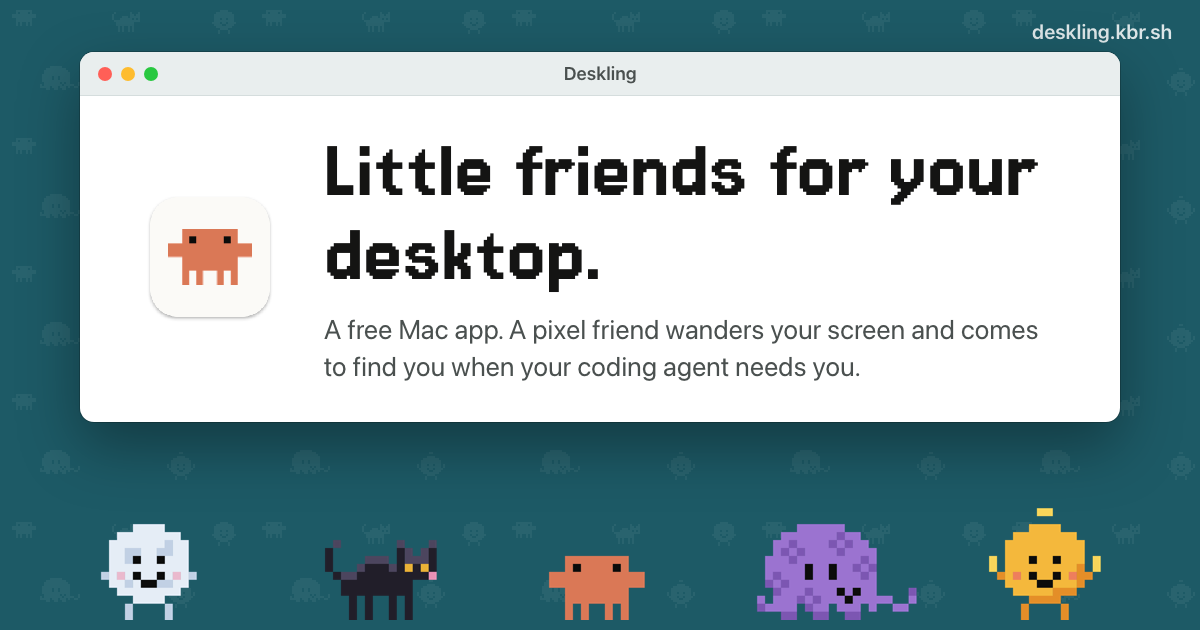
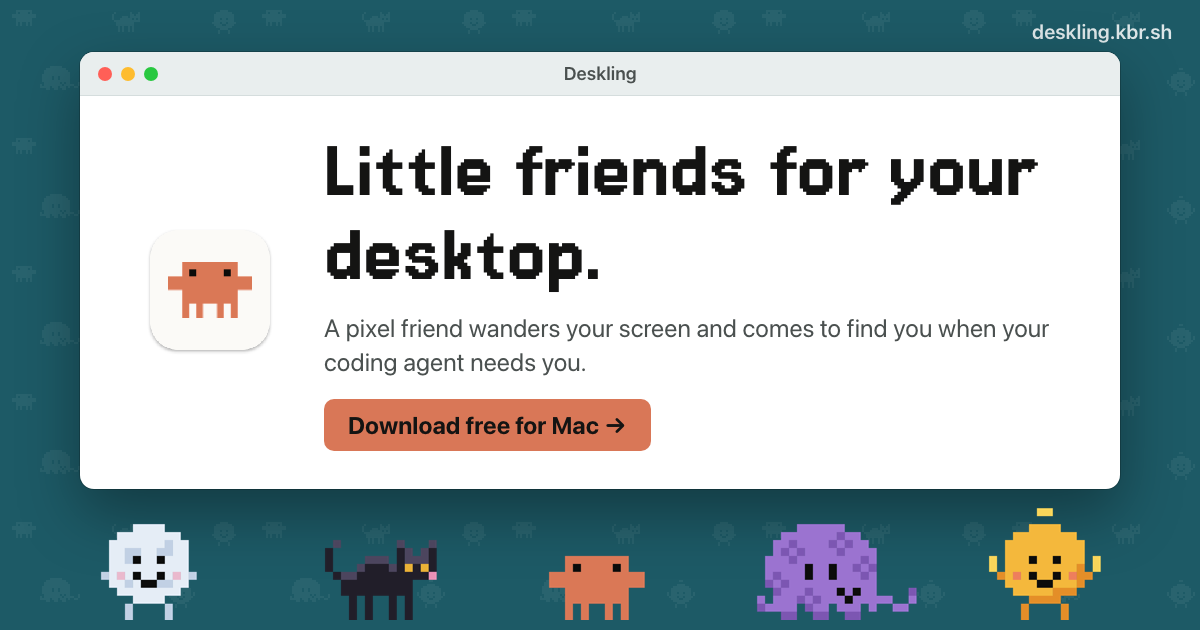
The preview card asks you to download, and its text fits
Shortens the title and descriptions to what Google and social previews
show without truncating, and adds a download button to the card.

diff --git a/apps/website/index.html b/apps/website/index.html
@@ -3,22 +3,22 @@
 <head>
 <meta charset="utf-8">
 <meta name="viewport" content="width=device-width, initial-scale=1">
-<title>Deskling: little pixel friends for your desktop (unofficial fan app)</title>
-<meta name="description" content="Deskling is a free, open-source Mac menubar app. Pick a little pixel character and they walk along the bottom of your screen, and come and find you when your coding agent needs you. Clawd is Anthropic's character; this is an unofficial fan project.">
+<title>Deskling: little pixel friends for your desktop</title>
+<meta name="description" content="Free, open-source Mac app. A pixel friend walks along your screen and comes to find you when your coding agent needs you. Unofficial fan project.">
 <meta name="theme-color" content="#1d5a66">
 <link rel="canonical" href="https://deskling.kbr.sh/">
 <meta property="og:type" content="website">
 <meta property="og:site_name" content="Deskling">
 <meta property="og:url" content="https://deskling.kbr.sh/">
 <meta property="og:title" content="Deskling: little pixel friends for your desktop">
-<meta property="og:description" content="A free, open-source Mac app. A pixel friend wanders along the bottom of your screen and comes to find you when your coding agent needs you. Unofficial fan project.">
+<meta property="og:description" content="A free Mac app. A pixel friend wanders your screen and comes to find you when your coding agent needs you.">
 <meta property="og:image" content="https://deskling.kbr.sh/assets/og.png">
 <meta property="og:image:width" content="1200">
 <meta property="og:image:height" content="630">
-<meta property="og:image:alt" content="The Deskling app window reading “Little friends for your desktop,” with five pixel characters standing below it.">
+<meta property="og:image:alt" content="The Deskling app window reading “Little friends for your desktop” with a Download free for Mac button, and five pixel characters standing below it.">
 <meta name="twitter:card" content="summary_large_image">
 <meta name="twitter:title" content="Deskling: little pixel friends for your desktop">
-<meta name="twitter:description" content="A free, open-source Mac app. A pixel friend wanders your screen and comes to find you when your coding agent needs you.">
+<meta name="twitter:description" content="A free Mac app. A pixel friend wanders your screen and comes to find you when your coding agent needs you.">
 <meta name="twitter:image" content="https://deskling.kbr.sh/assets/og.png">
 <link rel="icon" href="assets/app-icon.png">
 <link rel="preload" href="assets/fonts/jersey-15.woff2" as="font" type="font/woff2" crossorigin>

diff --git a/apps/website/scripts/og.html b/apps/website/scripts/og.html
@@ -31,7 +31,11 @@ body {
 .body { padding: 34px 56px 38px; display: flex; align-items: center; gap: 40px; }
 .icon { width: 148px; height: 148px; image-rendering: pixelated; flex: none; }
 h1 { font-family: "Jersey 15", sans-serif; font-weight: 400; font-size: 88px; line-height: .95; }
-p { font-size: 27px; line-height: 1.35; color: #4a504f; margin-top: 14px; }
+p { font-size: 25px; line-height: 1.35; color: #4a504f; margin-top: 14px; }
+.cta {
+  display: inline-block; margin-top: 20px; padding: 12px 24px; border-radius: 10px;
+  background: #d97757; color: #141413; font-size: 24px; font-weight: 700;
+}
 .cast {
   position: absolute; left: 0; right: 0; bottom: 10px;
   display: flex; justify-content: center; gap: 4px;
@@ -51,7 +55,8 @@ p { font-size: 27px; line-height: 1.35; color: #4a504f; margin-top: 14px; }
     <img class="icon" src="../assets/app-icon.png" alt="">
     <div>
       <h1>Little friends for your desktop.</h1>
-      <p>A free Mac app. A pixel friend wanders your screen and comes to find you when your coding agent needs you.</p>
+      <p>A pixel friend wanders your screen and comes to find you when your coding agent needs you.</p>
+      <span class="cta">Download free for Mac →</span>
     </div>
   </div>
 </div>
